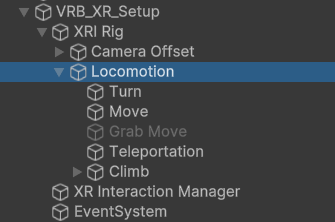
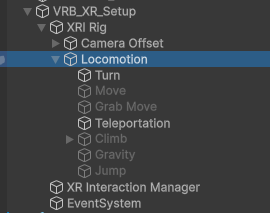
Document new XR Rig options (#18)
* Added docs for XR Rig, Tunneling Vignette, Controller Visualization
* Reduced file size of images with better compression
* Removes some instances of uppercase game object

Changed region(s): [[0.0, 0.0, 1.0, 1.0]]

diff --git a/docfx/articles/core/locomotion.md b/docfx/articles/core/locomotion.md
@@ -1,30 +1,37 @@
 ## Locomotion
 
-By default, the default rig supports locomotion by teleportation, continuous movement and climbing. You can modify the locomotion styles supported by your rig by enabling or disabling the child objects of the `Locomotion` object on the rig.
+By default the rig is configured for locomotion types that minimize discomfort. These are movement by teleportation and rotation with snap turn. You can modify the locomotion styles supported by your rig by enabling or disabling the child objects of the `Locomotion` object on the rig.
 
 ![Rig Locomotion](images/rig_locomotion.png)
 
-### Continuous Movement
+### General Documentation
 
-Continuous movement is controlled by default with the thumbsticks. Left to move around, right to turn on the spot. We suggest caution in using this locomotion solution as it can cause motion sickness in inexperienced users. However, it can still be useful for specific use cases, precision adjustments or testing.
+For detailed explanations on all locomotion styles supported please refer to the XR Interaction Toolkit documentation. As of 04.08.2025 VR Builder uses XR Interaction Toolkit [version 3.1.2](https://docs.unity3d.com/Packages/com.unity.xr.interaction.toolkit@3.1/manual/locomotion-landing.html) as the source of the rig.
 
-### Teleportation
+For a more in-depth guide on locomotion in VR we suggest reading the excellent guide at [Meta’s locomotion design guidelines](https://developers.meta.com/horizon/design/locomotion-overview).
 
-Teleportation requires the user to push the right thumbstick forward, then release while pointing at a teleportable surface or anchor. Teleportation requires a little more setup to work properly, but most of it is handled automatically by VR Builder.
+### Setup Teleportation in VR Builder
 
-It is recommended for teleportation to work on different layer than normal interactions. By default, VR Builder uses the `Teleport` raycast layer for raycasts from the teleportation controllers, and the `Teleport` XRI interaction layer for teleportation interaction. When imported, VR Builder will attempt to create both layers at the index 31 of the respective layer arrays.
+Teleportation requires the user to push the right thumbstick forward then release it while pointing at a teleportable surface or anchor. Most of the setup is handled automatically by VR Builder, but a few steps are required for it to work properly.
 
-Interactors and interactables need to be configured with these layers in order to work. When a new scene is created, the teleport interactors on the default rig are automatically configured to raycast and interact on these layers.
+#### Layer Configuration
 
-Likewise, when creating a teleportation anchor or area, you should use the `Teleportation Anchor (VR Builder)` or `Teleportation Area (VR Builder)` components instead of the XRI versions. These include a button in the inspector which automatically configures them to settings compatible with the VR Builder rig, including layer settings.
-The teleportation anchor in particular also includes more options, explained below.
+It is recommended that teleportation use a layer different from normal interactions. By default, VR Builder uses the `Teleport` raycast layer for controller raycasts and the `Teleport` XRI interaction layer for teleport actions. When you import VR Builder, it attempts to create both layers at index 31 of their respective layer arrays.
 
-**Set Default Teleportation Anchor**: Creates a default anchor by adding a collider to the game object and a graphical representation of the anchor (a feet silouhette inside a circle).
+Interactors and interactables must be configured with these layers to function. In a new scene, the default rig’s teleport interactors are already set up to raycast and interact on these layers.
 
-**Add Snap Volume**: Configures the anchor so that the teleportation ray snaps to it when it's in the vicinity.
+### Anchor and Area Setup
 
-**Add Interaction Affordance**: Adds feedback when the user interacts with the anchor.
+When creating a teleportation anchor or area, use the **Teleportation Anchor (VR Builder)** or **Teleportation Area (VR Builder)** components instead of the XRI versions. Each component has a button in its inspector that configures compatible settings, including layer masks. The **Teleportation Anchor** also offers additional options:
 
-**Add Proximity Entry**: If this is enabled, the user will be considered teleported at the anchor even if they get close by walking or stick locomotion. This can be relevant if the VR Builder process includes a [Teleport condition](teleport-condition.md) to that anchor.
+- **Set Default Teleportation Anchor**: Creates a default anchor by adding a collider to the game object and a graphical representation of the anchor (a feet silouhette inside a circle).
 
-Teleportation should be easy to setup and just work out of the box. In case something does not, for example when editing an old scene or after changing the position of the XR Teleport layer, it is possible to reset the layers on the rig and all anchors and areas in the scene. To do so, select `Tools > VR Builder > Developer > Configure Teleportation Layers`. Note that this will overwrite your existing layer masks and select the `Teleport` layer on all of them.
+- **Add Snap Volume**: Configures the anchor so that the teleportation ray snaps to it when it's in the vicinity.
+
+- **Add Interaction Affordance**: Adds feedback when the user interacts with the anchor.
+
+- **Add Proximity Entry**: If this is enabled, the user will be considered teleported at the anchor even if they get close by walking or stick locomotion. This can be relevant if the VR Builder process includes a [Teleport condition](teleport-condition.md) to that anchor.
+
+#### Troubelshoting
+
+Teleportation generally works out of the box. If you encounter issues—such as after editing an old scene or moving the XR Teleport layer—you can reset all layers on the rig, anchors, and areas. To do this, select: `Tools > VR Builder > Developer > Configure Teleportation Layers`. Be aware that this will overwrite existing layer masks and assign the `Teleport` layer to all affected objects.

diff --git a/README.md b/README.md
@@ -1,4 +1,33 @@
-# VR Builder Documentation
+<h1 align="center">VR Builder Documentation</h1>
+
+<p align="center">
+    <img src="https://github.com/user-attachments/assets/c8d8ae7e-8369-4d00-9ab1-16159dd1bd6c" alt="vr builder logo" height="200px"/>
+    <br>
+    <em><span><b>VR</b> <b>Builder</b> is an open source toolkit that lets you create <b>VR</b> applications without prior experience.
+    <br>
+    It supports all major <b>VR</b> headsets, has a graphical workflow editor, and offers various integrations.</span></em>
+    <br>
+</p>
+
+<p align="center">
+    <a href="https://www.mindport.co/vr-builder"><strong>VR Builder</strong></a>
+    <br>
+</p>
+
+<p align="center">
+    <a href="https://github.com/MindPort-GmbH/VR-Builder-Documentation/issues?q=">Submit an Issue</a>
+    ·
+    <a href="https://www.mindport.co/blog">Blog</a>
+    <br>
+    <br>
+</p>
+
+<p align="center">
+    <a href="https://openupm.com/packages/co.mindport.vrbuilder.core/" title="Download VR Builder over GitHub OpenUPM" target="_blank"><img alt="OpenUPM Badge" src="https://img.shields.io/npm/v/co.mindport.vrbuilder.core?label=openupm&amp;registry_uri=https://package.openupm.com"/></a>
+    <a href="https://github.com/MindPort-GmbH/VR-Builder/releases" title="Download VR Builder over GitHub" target="_blank"><img alt="Static download badge" src="https://img.shields.io/github/downloads/MindPort-GmbH/VR-Builder/total.svg"></a>
+    <a href="https://github.com/MindPort-GmbH/VR-Builder-Documentation/issues?q=is%3Aopen" title="Show issues for VR Builder Documentation" target="_blank"><img alt="Open issue badge" src="https://img.shields.io/github/issues/MindPort-GmbH/VR-Builder-Documentation"></a>
+    <a href="https://discord.com/invite/aUdwRRPgrK" title="Join the community of VR Builder" target="_blank"><img alt="Discord conversation badge" src="https://img.shields.io/discord/861482616539578378"></a>
+</p>
 
 ## Contribute
 
@@ -19,7 +48,7 @@ To contribute, go to the [Documentation](https://mindport-gmbh.github.io/VR-Buil
 ## Usage
 
 1. Refresh all .csproj files in Unity and ensure the project compiles in Unity. (Note: Using VS Code as editor might result in errors / warnings when generating the API docs. Better switch to VS before regranting.)
-2. Run `docfx/build-all.bat` in to build the documentation, generate PDFs for all packages and serve the site to localhost.
+2. Run `docfx/build-all.bat` in to build the documentation, generate PDFs for all packages, and serve the site to localhost.
 3. Ensure that the documentation works as intended in your browser by checking http://localhost:8080/.
 4. You can find the generated PDF files in the `pdf/docfx_articles` folder.
 5. You can use `build-pdf` or `build-site` to generate only the PDFs or the site, as needed.

diff --git a/docfx/articles/core/controller-visualization.md b/docfx/articles/core/controller-visualization.md
@@ -1,0 +1,21 @@
+## Controller Visualization
+
+By default, the VR Builder rig visualizes the VR controllers as generic controllers. With some small modifications on the rig, you can change this to show animated hands that react when pressing the grip or trigger button on your controller.
+
+### Animated Controllers
+
+To show or hide the controller visualization, navigate to `Left Controller Visual` and `Right Controller Visual` inside the rig and enable or disable them.
+
+![Rig Controllers Visualization](images/rig_controller_visualization.png)
+
+### Animated Hands
+
+To show or hide the hands visualization, navigate to `Left Hand Visual` and `Right Hand Visual` inside the rig and enable or disable them.
+
+![Rig Controller Hands Visualization](images/rig_controller_hands_visualization.png)
+
+### Dual Visualisation
+
+It is possible to show both controllers and hands at the same time by having both visualizations active. However, our priority was that the animated hands work well on their own and interact smoothly with the grey `Poke Point` and the teleport ray. Because of this, the hand and finger positions are not accurately mapped to the controller buttons.
+
+![Rig Controller Dual Visualization](images/rig_controller_dual_visualization.png)

diff --git a/docfx/articles/core/xr-rig.md b/docfx/articles/core/xr-rig.md
@@ -1,0 +1,9 @@
+## XR Rig
+
+The XR Rig is a game object that anchors the user’s head mounted display, controllers, or user’s hands when using hand tracking within the virtual space. Essentially, it represents the user in the scene. On the rig, you can configure which types of locomotion and interaction are available to the user.
+
+### VR Builder XR Rig
+
+When creating a new scene with the VR Builder Scene Setup Wizard, you get a `VRB_XR_Setup` game object automatically added to the scene. `VRB_XR_Setup` is the VR Builder XR Rig and is built upon the suggested standards set by the Unity XR Interaction Toolkit. Therefore, `VRB_XR_Setup` is very similar to the `XR Origin (XR Rig)` found in the XR Interaction Toolkit samples but has some additional VR Builder–specific scripts added.
+
+![VR Builder XR Rig](images/rig_vrb_xr_rig.png)

diff --git a/docfx/articles/core/tunneling-vignette.md b/docfx/articles/core/tunneling-vignette.md
@@ -1,0 +1,11 @@
+#### Tunneling Vignette
+
+The tunneling vignette improves comfort during continuous movement. By default, the vignette is configured to activate whenever any continuous [Locomotion](locomotion.md) method is in use on the rig.
+Note that continuous locomotion methods are disabled by default on the VR Builder rig, so the vignette will only be used if you manually enabled them.
+
+![Tunneling Vignette](images/rig_tunneling_vignette.png)
+
+#### Configure Tunneling Vignette
+
+To configure it, search for the `TunnelingVignette` game object in the rig. For detailed explanations of the tunneling vignette settings, refer to the [XR Interaction Toolkit documentation](https://docs.unity3d.com/Packages/com.unity.xr.interaction.toolkit@3.1/manual/tunneling-vignette-controller.html).
+

diff --git a/docfx/articles/core/disable-objects-behavior.md b/docfx/articles/core/disable-objects-behavior.md
@@ -2,7 +2,7 @@
 
 #### Description
 
-The Disable Objects behavior makes the selected `Objects` invisible and non-interactive until they are specifically set back to *"enabled"* in a future step. Put into Unity terms, it deactivates the selected Game Objects.
+The Disable Objects behavior makes the selected `Objects` invisible and non-interactive until they are specifically set back to *"enabled"* in a future step. Put into Unity terms, it deactivates the selected game objects.
 
 #### Configuration
 

diff --git a/docfx/articles/core/enable-objects-behavior.md b/docfx/articles/core/enable-objects-behavior.md
@@ -3,7 +3,7 @@
 #### Description
 
 The Enable Objects behavior makes the selected `Objects` visible and interactive until it is specifically set back to *"disabled"* in a future step.
-Put into Unity terms, it activates the selected Game Objects.
+Put into Unity terms, it activates the selected game objects.
 
 #### Configuration
 
